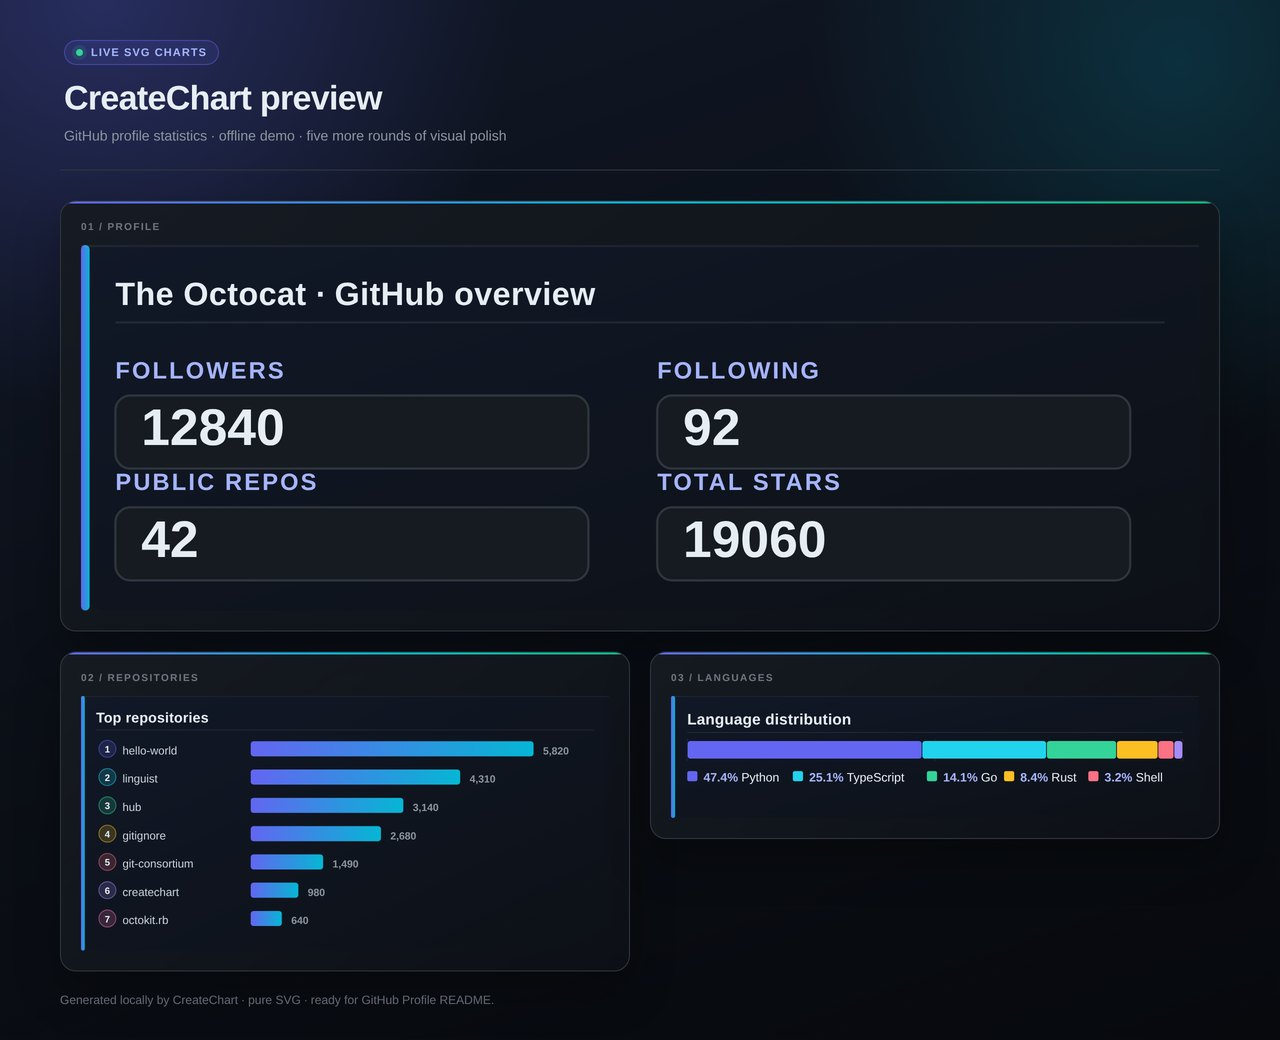
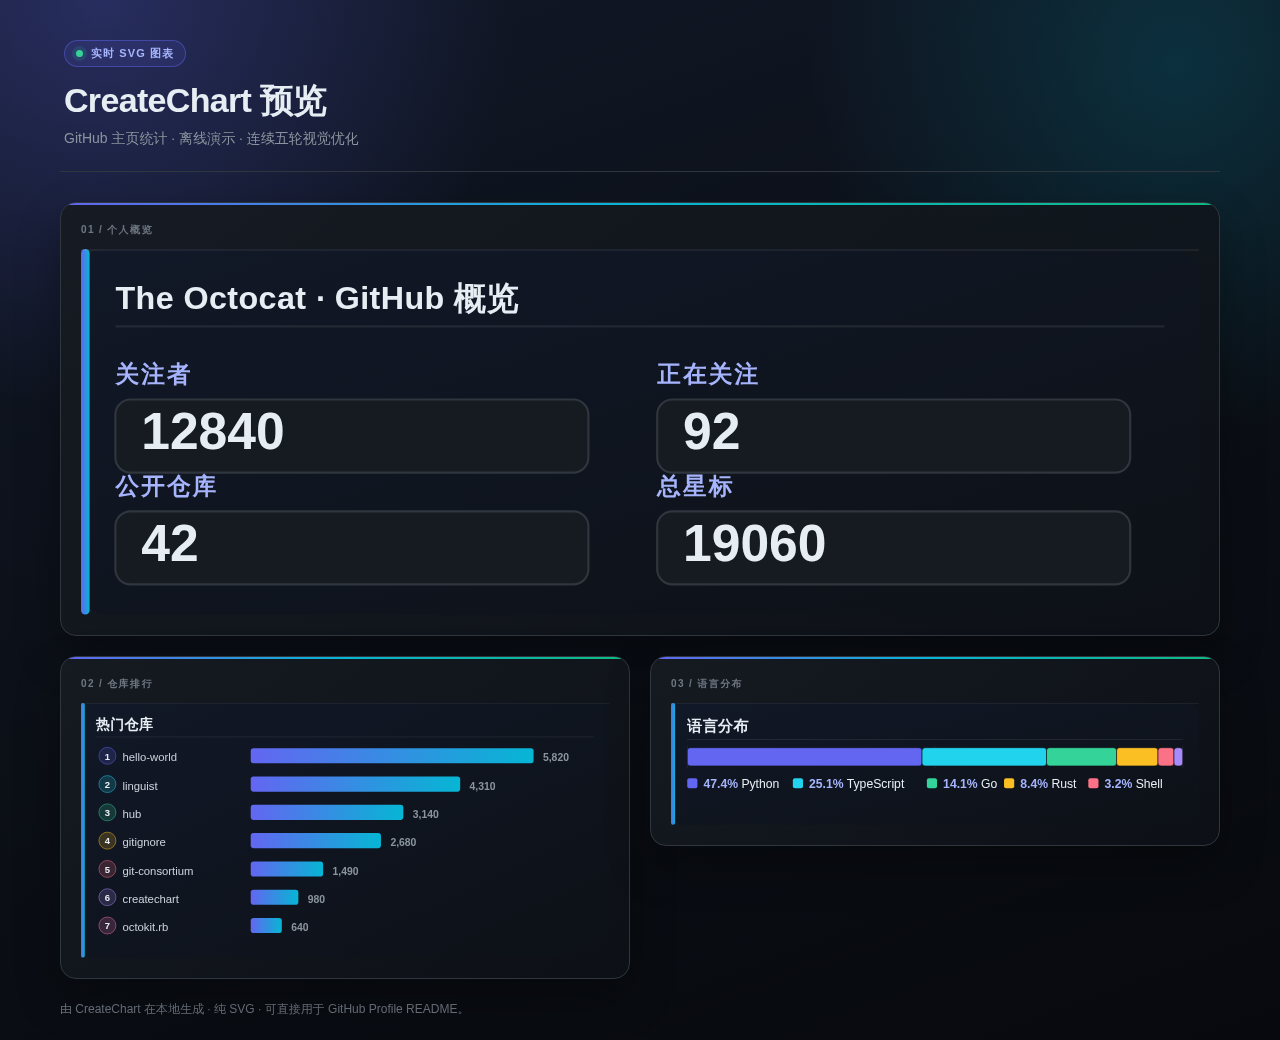
feat: 支持中英文图表语言

diff --git a/createchart/charts.py b/createchart/charts.py
@@ -11,6 +11,58 @@ PALETTE = [
     "#fb7185", "#a78bfa", "#f472b6", "#94a3b8",
 ]
 
+LANGUAGE_LABELS = {
+    "zh": {
+        "profile_title": "GitHub 概览",
+        "repos_title": "热门仓库",
+        "languages_title": "语言分布",
+        "followers": "关注者",
+        "following": "正在关注",
+        "public_repos": "公开仓库",
+        "total_stars": "总星标",
+        "no_language_data": "暂无语言数据",
+        "no_repositories": "暂无仓库数据",
+        "bytes": "字节",
+        "preview_title": "CreateChart · 预览",
+        "preview_eyebrow": "实时 SVG 图表",
+        "preview_heading": "CreateChart 预览",
+        "preview_subtitle": "GitHub 主页统计 · 离线演示 · 连续五轮视觉优化",
+        "profile_section": "01 / 个人概览",
+        "repos_section": "02 / 仓库排行",
+        "languages_section": "03 / 语言分布",
+        "preview_footer": "由 CreateChart 在本地生成 · 纯 SVG · 可直接用于 GitHub Profile README。",
+    },
+    "en": {
+        "profile_title": "GitHub overview",
+        "repos_title": "Top repositories",
+        "languages_title": "Languages",
+        "followers": "Followers",
+        "following": "Following",
+        "public_repos": "Public repos",
+        "total_stars": "Total stars",
+        "no_language_data": "No language data",
+        "no_repositories": "No repositories",
+        "bytes": "bytes",
+        "preview_title": "CreateChart · Preview",
+        "preview_eyebrow": "Live SVG charts",
+        "preview_heading": "CreateChart preview",
+        "preview_subtitle": "GitHub profile statistics · offline demo · five more rounds of visual polish",
+        "profile_section": "01 / Profile",
+        "repos_section": "02 / Repositories",
+        "languages_section": "03 / Languages",
+        "preview_footer": "Generated locally by CreateChart · pure SVG · ready for GitHub Profile README.",
+    },
+}
+
+DEFAULT_LANG = "en"
+
+
+def t(key: str, lang: str = DEFAULT_LANG) -> str:
+    """Return a localized UI string with English fallback."""
+    return LANGUAGE_LABELS.get(lang, LANGUAGE_LABELS[DEFAULT_LANG]).get(
+        key, LANGUAGE_LABELS[DEFAULT_LANG].get(key, key)
+    )
+
 
 def _svg_header(title: str, width: int, height: int) -> List[str]:
     return [
@@ -38,12 +90,12 @@ def _svg_footer(lines: List[str]) -> str:
     return "\n".join(lines)
 
 
-def language_chart(languages: Dict[str, int], title: str = "Languages") -> str:
+def language_chart(languages: Dict[str, int], title: str | None = None, lang: str = DEFAULT_LANG) -> str:
     """Build a horizontal stacked bar chart of byte counts by language."""
     total = sum(v for v in languages.values() if v > 0)
-    parts = _svg_header(title, 520, 120)
+    parts = _svg_header(title or t("languages_title", lang), 520, 120)
     if total == 0:
-        parts.append('<text x="16" y="64" fill="#8b949e" font-family="sans-serif" font-size="13">No language data</text>')
+        parts.append(f'<text x="16" y="64" fill="#8b949e" font-family="sans-serif" font-size="13">{escape(t("no_language_data", lang))}</text>')
         return _svg_footer(parts)
 
     x = 16.0
@@ -56,7 +108,7 @@ def language_chart(languages: Dict[str, int], title: str = "Languages") -> str:
             continue
         segment = bar_width * value / total
         color = PALETTE[idx % len(PALETTE)]
-        parts.append(f'<rect x="{x:.2f}" y="44" width="{segment:.2f}" height="18" rx="3" fill="{color}" stroke="#0d1117" stroke-width="0.6"><title>{escape(lang)}: {value} bytes</title></rect>')
+        parts.append(f'<rect x="{x:.2f}" y="44" width="{segment:.2f}" height="18" rx="3" fill="{color}" stroke="#0d1117" stroke-width="0.6"><title>{escape(lang)}: {value} {escape(t("bytes", lang))}</title></rect>')
         x += segment
 
     legend_x = 16.0
@@ -73,7 +125,12 @@ def language_chart(languages: Dict[str, int], title: str = "Languages") -> str:
     return _svg_footer(parts)
 
 
-def repo_bars(repos: Iterable[Dict[str, object]], metric: str = "stargazers_count", title: str = "Top repositories") -> str:
+def repo_bars(
+    repos: Iterable[Dict[str, object]],
+    metric: str = "stargazers_count",
+    title: str | None = None,
+    lang: str = DEFAULT_LANG,
+) -> str:
     """Build a bar chart ranking repositories by a numeric metric."""
     ranked: List[Tuple[str, int]] = []
     for repo in repos:
@@ -88,9 +145,9 @@ def repo_bars(repos: Iterable[Dict[str, object]], metric: str = "stargazers_coun
     row_height = 30
     width = 560
     height = max(100, 60 + row_height * len(ranked))
-    parts = _svg_header(title, width, height)
+    parts = _svg_header(title or t("repos_title", lang), width, height)
     if not ranked:
-        parts.append('<text x="16" y="64" fill="#8b949e" font-family="sans-serif" font-size="13">No repositories</text>')
+        parts.append(f'<text x="16" y="64" fill="#8b949e" font-family="sans-serif" font-size="13">{escape(t("no_repositories", lang))}</text>')
         return _svg_footer(parts)
 
     max_value = max(value for _, value in ranked) or 1
@@ -107,7 +164,7 @@ def repo_bars(repos: Iterable[Dict[str, object]], metric: str = "stargazers_coun
     return _svg_footer(parts)
 
 
-def profile_summary(user: Dict[str, object], repos: Iterable[Dict[str, object]]) -> str:
+def profile_summary(user: Dict[str, object], repos: Iterable[Dict[str, object]], lang: str = DEFAULT_LANG) -> str:
     """Build a compact summary card for a GitHub user."""
     repo_list = list(repos)
     followers = int(user.get("followers") or 0)
@@ -121,17 +178,17 @@ def profile_summary(user: Dict[str, object], repos: Iterable[Dict[str, object]])
             pass
 
     name = str(user.get("name") or user.get("login") or "GitHub user")
-    lines = _svg_header(f"{name} · GitHub overview", 520, 170)
+    lines = _svg_header(f"{name} · {t('profile_title', lang)}", 520, 170)
     stats = [
-        ("Followers", followers),
-        ("Following", following),
-        ("Public repos", public_repos),
-        ("Total stars", total_stars),
+        (t("followers", lang), followers),
+        (t("following", lang), following),
+        (t("public_repos", lang), public_repos),
+        (t("total_stars", lang), total_stars),
     ]
     for idx, (label, value) in enumerate(stats):
         x = 16 + (idx % 2) * 252
         y = 62 + (idx // 2) * 52
-        lines.append(f'<text x="{x}" y="{y}" fill="#a5b4fc" font-family="sans-serif" font-size="11" font-weight="700" letter-spacing="1">{escape(label).upper()}</text>')
+        lines.append(f'<text x="{x}" y="{y}" fill="#a5b4fc" font-family="sans-serif" font-size="11" font-weight="700" letter-spacing="1">{escape(label)}</text>')
         lines.append(f'<rect x="{x}" y="{y + 8}" width="220" height="34" rx="7" fill="#161b22" stroke="#30363d"/>')
         lines.append(f'<text x="{x + 12}" y="{y + 31}" fill="#e6edf3" font-family="sans-serif" font-size="24" font-weight="700" font-feature-settings="tnum">{value}</text>')
     return _svg_footer(lines)
@@ -174,21 +231,21 @@ def demo_data() -> Tuple[Dict[str, object], List[Dict[str, object]], Dict[str, i
     return user, repos, languages
 
 
-def demo_charts() -> Dict[str, str]:
+def demo_charts(lang: str = DEFAULT_LANG) -> Dict[str, str]:
     """Build sample charts for local preview without network access."""
     user, repos, languages = demo_data()
     return {
-        "profile": profile_summary(user, repos),
-        "repos": repo_bars(repos),
-        "languages": language_chart(languages, title="Language distribution"),
+        "profile": profile_summary(user, repos, lang=lang),
+        "repos": repo_bars(repos, lang=lang),
+        "languages": language_chart(languages, lang=lang),
     }
 
 
-def preview_html(charts: Dict[str, str]) -> str:
+def preview_html(charts: Dict[str, str], lang: str = DEFAULT_LANG) -> str:
     """Wrap generated SVG charts into a single standalone preview page."""
-    title = escape("CreateChart · Preview")
+    title = escape(t("preview_title", lang))
     return f"""<!doctype html>
-<html lang="en">
+<html lang="{escape(lang)}">
 <head>
   <meta charset="utf-8">
   <meta name="viewport" content="width=device-width, initial-scale=1">
@@ -251,16 +308,16 @@ def preview_html(charts: Dict[str, str]) -> str:
 <body>
   <main>
     <header>
-      <div class="eyebrow">Live SVG charts</div>
-      <h1>CreateChart preview</h1>
-      <div class="subtitle">GitHub profile statistics · offline demo · five more rounds of visual polish</div>
+      <div class="eyebrow">{escape(t("preview_eyebrow", lang))}</div>
+      <h1>{escape(t("preview_heading", lang))}</h1>
+      <div class="subtitle">{escape(t("preview_subtitle", lang))}</div>
     </header>
     <section class="grid">
-      <div class="card"><span class="section-label">01 / Profile</span>{charts["profile"]}</div>
-      <div class="card"><span class="section-label">02 / Repositories</span>{charts["repos"]}</div>
-      <div class="card"><span class="section-label">03 / Languages</span>{charts["languages"]}</div>
+      <div class="card"><span class="section-label">{escape(t("profile_section", lang))}</span>{charts["profile"]}</div>
+      <div class="card"><span class="section-label">{escape(t("repos_section", lang))}</span>{charts["repos"]}</div>
+      <div class="card"><span class="section-label">{escape(t("languages_section", lang))}</span>{charts["languages"]}</div>
     </section>
-    <footer>Generated locally by CreateChart · pure SVG · ready for GitHub Profile README.</footer>
+    <footer>{escape(t("preview_footer", lang))}</footer>
   </main>
 </body>
 </html>

diff --git a/createchart/cli.py b/createchart/cli.py
@@ -14,6 +14,7 @@ from .github_client import GitHubClient
 
 def build_parser() -> argparse.ArgumentParser:
     parser = argparse.ArgumentParser(prog="createchart", description="Generate GitHub statistic SVG charts")
+    parser.add_argument("--lang", choices=["zh", "en"], default="en", help="Chart language (zh or en)")
     parser.add_argument("username", nargs="?", help="GitHub username (omit with --demo)")
     parser.add_argument("--demo", action="store_true", help="Generate local demo charts without GitHub API")
     parser.add_argument("-o", "--output-dir", default="charts", help="Directory to write SVG files")
@@ -29,11 +30,11 @@ def main(argv: list[str] | None = None) -> int:
     if args.demo:
         output = Path(args.output_dir)
         output.mkdir(parents=True, exist_ok=True)
-        charts = demo_charts()
+        charts = demo_charts(lang=args.lang)
         for name, svg in charts.items():
             (output / f"{name}.svg").write_text(svg, encoding="utf-8")
         if args.preview_html:
-            (output / "preview.html").write_text(preview_html(charts), encoding="utf-8")
+            (output / "preview.html").write_text(preview_html(charts, lang=args.lang), encoding="utf-8")
             print(f"Wrote 3 demo charts and preview.html to {output.resolve()}")
         else:
             print(f"Wrote 3 demo charts to {output.resolve()}")
@@ -54,8 +55,8 @@ def main(argv: list[str] | None = None) -> int:
     output = Path(args.output_dir)
     output.mkdir(parents=True, exist_ok=True)
 
-    (output / "profile.svg").write_text(profile_summary(user, repos), encoding="utf-8")
-    (output / "repos.svg").write_text(repo_bars(repos, metric=args.metric), encoding="utf-8")
+    (output / "profile.svg").write_text(profile_summary(user, repos, lang=args.lang), encoding="utf-8")
+    (output / "repos.svg").write_text(repo_bars(repos, metric=args.metric, lang=args.lang), encoding="utf-8")
 
     languages: Dict[str, int] = {}
     if args.repo_languages:
@@ -68,7 +69,7 @@ def main(argv: list[str] | None = None) -> int:
         # user has no aggregate language endpoint; use top repo as a lightweight default
         if repos:
             languages = client.list_languages(args.username, str(repos[0].get("name", "")))
-    (output / "languages.svg").write_text(language_chart(languages), encoding="utf-8")
+    (output / "languages.svg").write_text(language_chart(languages, lang=args.lang), encoding="utf-8")
 
     print(f"Wrote 3 charts to {output.resolve()}")
     return 0

diff --git a/tests/test_charts.py b/tests/test_charts.py
@@ -1,4 +1,4 @@
-from createchart.charts import aggregate_languages, language_chart, preview_html, profile_summary, repo_bars
+from createchart.charts import aggregate_languages, language_chart, preview_html, profile_summary, repo_bars, demo_charts, t
 
 
 def test_language_chart_empty():
@@ -51,3 +51,17 @@ def test_preview_html_wraps_all_charts():
     assert "<svg>p</svg>" in html
     assert "<svg>r</svg>" in html
     assert "<svg>l</svg>" in html
+
+
+def test_chinese_labels_are_used():
+    assert t("followers", "zh") == "关注者"
+    charts = demo_charts(lang="zh")
+    assert "关注者" in charts["profile"]
+    assert "热门仓库" in charts["repos"]
+    assert "语言分布" in charts["languages"]
+
+
+def test_english_labels_remain_default():
+    charts = demo_charts()
+    assert "Followers" in charts["profile"]
+    assert "Top repositories" in charts["repos"]

diff --git a/README.md b/README.md
@@ -10,6 +10,7 @@ Generate SVG statistical charts for GitHub profiles and repositories. Ready to d
 - Pure SVG output — no JavaScript, works in any GitHub README
 - Polished cards with contrast labels, rank badges, legend percentages, and value emphasis
 - Offline demo mode for previewing charts without GitHub API calls
+- Chinese and English labels via `--lang zh` / `--lang en`
 
 ## Install
 
@@ -48,6 +49,9 @@ Run the offline demo to generate three sample charts and a standalone preview pa
 
 ```bash
 createchart --demo --preview-html -o charts
+
+# Chinese labels
+createchart --demo --preview-html --lang zh -o charts-zh
 ```
 
 Open `charts/preview.html` locally, or use this screenshot:
